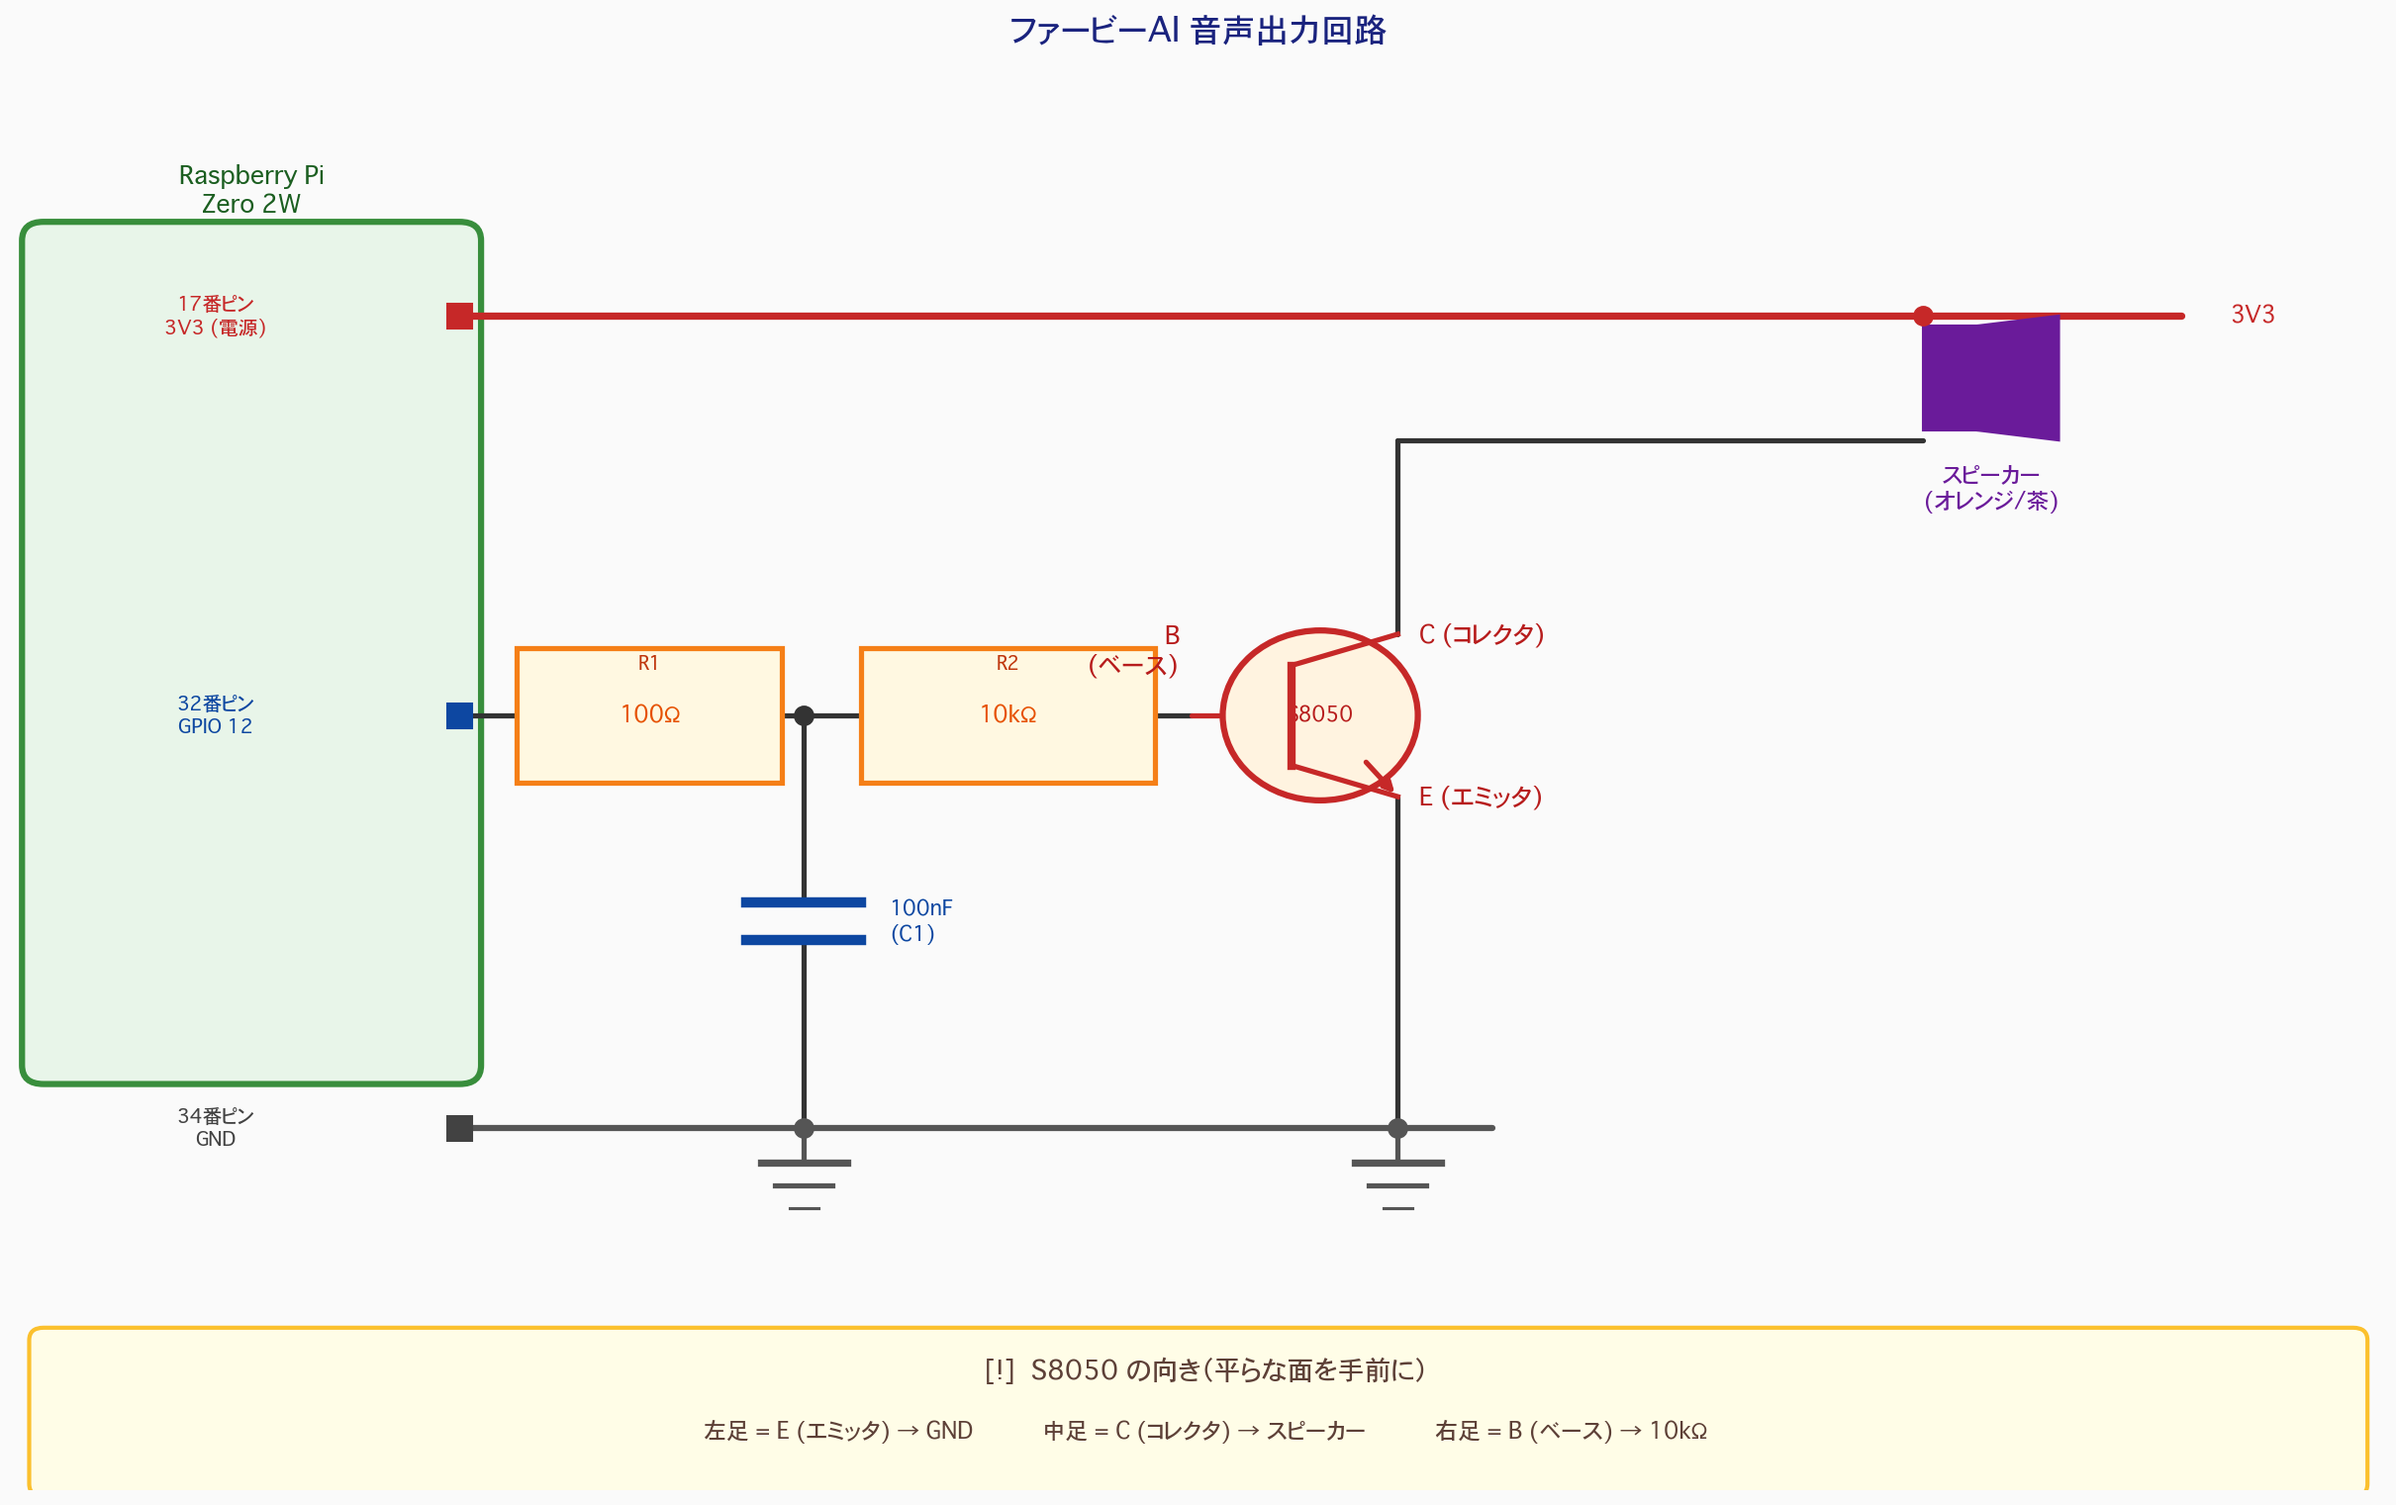
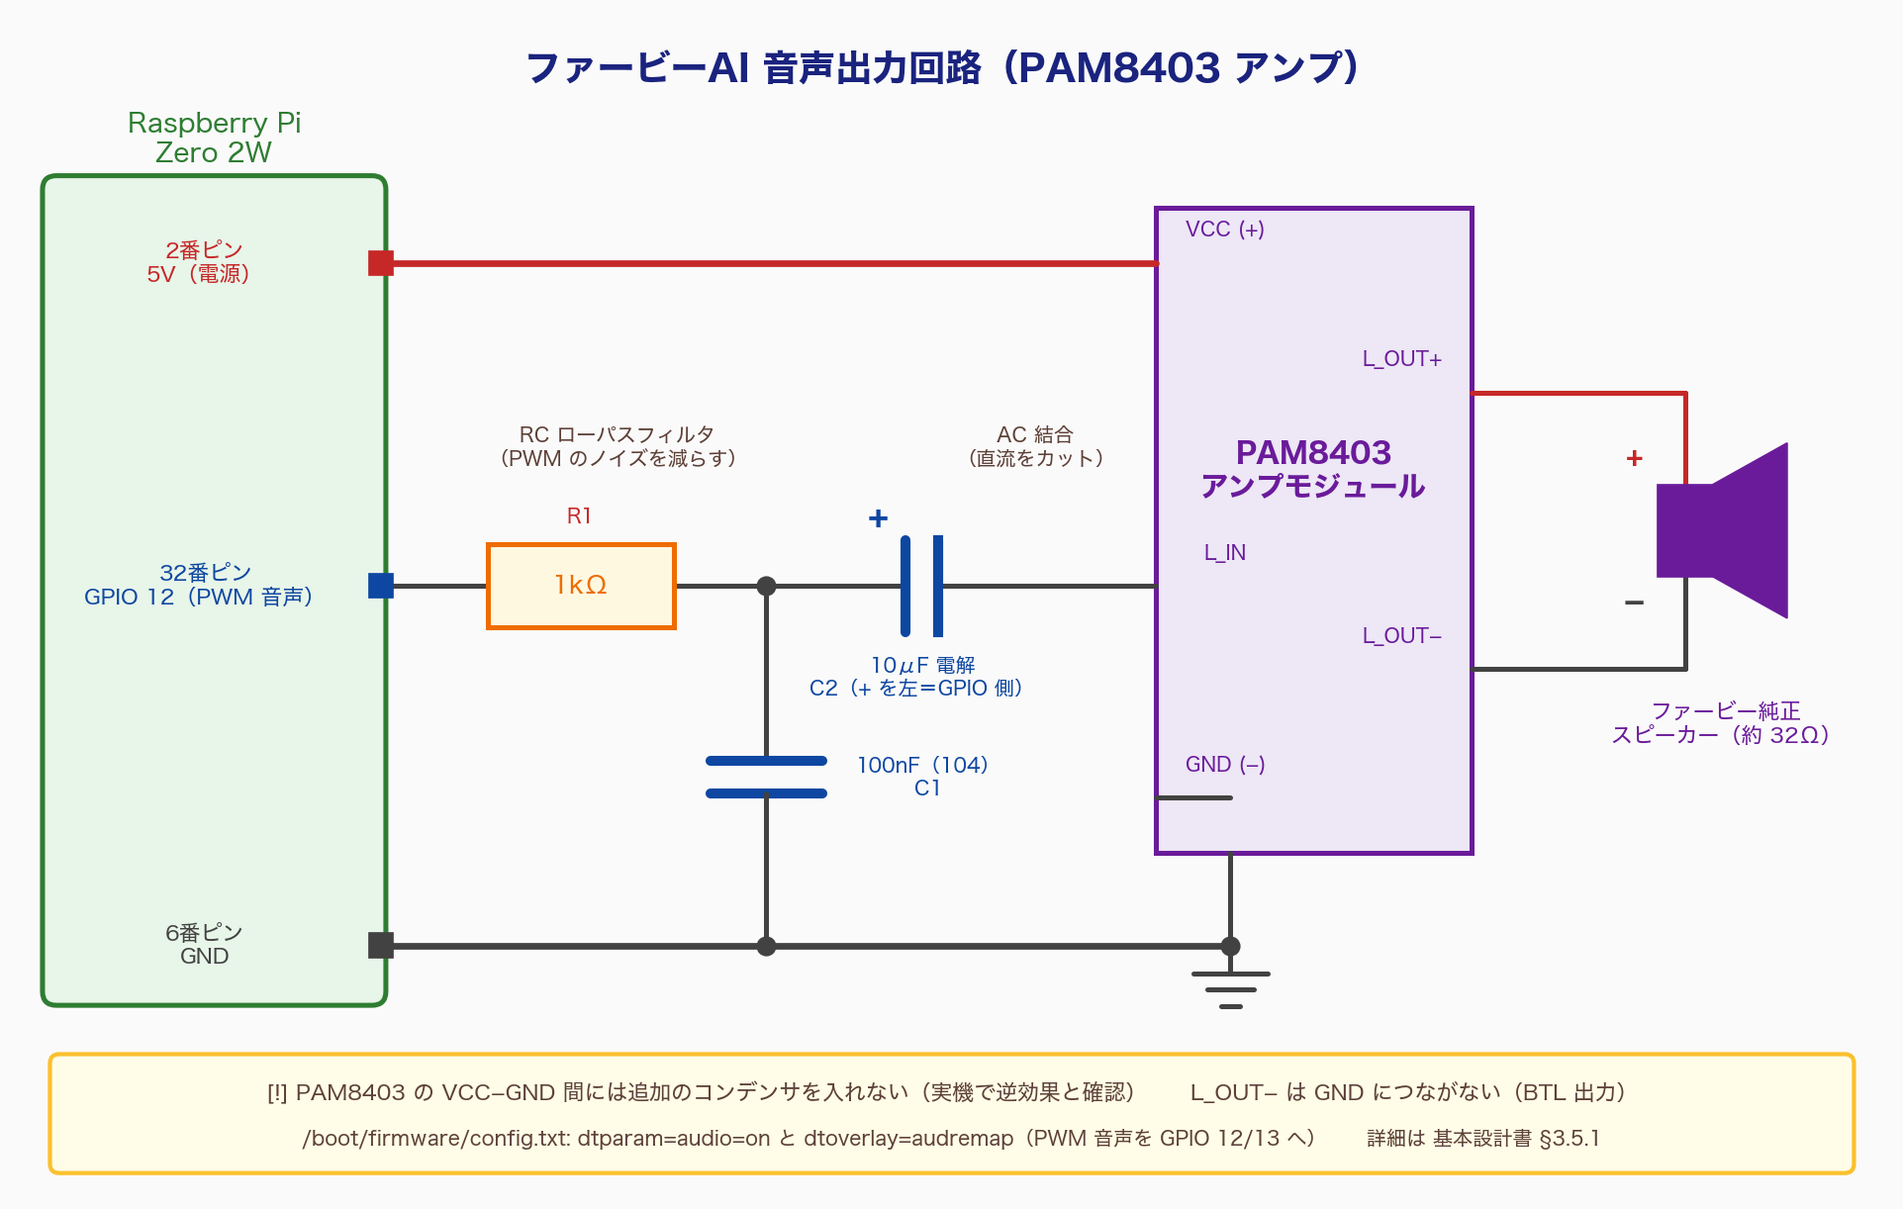
音声出力回路の図を現在の PAM8403 アンプ構成に差し替え
前の図は PAM8403 にする前の直結（S8050）回路だった。描き直せるように生成スクリプトも追加。

diff --git a/docs/draw_audio_circuit.py b/docs/draw_audio_circuit.py
@@ -1,0 +1,119 @@
+"""PAM8403 版 音声出力回路図を描く
+
+実行: python3 docs/draw_audio_circuit.py docs/audio_circuit.png（matplotlib と macOS のヒラギノフォントが必要）
+"""
+import sys
+
+import matplotlib
+matplotlib.use('Agg')
+import matplotlib.pyplot as plt
+from matplotlib.patches import FancyBboxPatch, Polygon, Rectangle
+
+plt.rcParams['font.family'] = 'Hiragino Sans'
+
+RED, BLUE, GRAY, ORANGE, PURPLE, GREEN = '#c62828', '#0d47a1', '#424242', '#ef6c00', '#6a1b9a', '#2e7d32'
+fig, ax = plt.subplots(figsize=(20, 12.6), dpi=121)
+ax.set_xlim(0, 20)
+ax.set_ylim(0, 12.6)
+ax.axis('off')
+fig.patch.set_facecolor('#fafafa')
+
+
+def wire(xs, ys, c=GRAY, lw=3):
+    ax.plot(xs, ys, color=c, lw=lw, solid_capstyle='round', zorder=1)
+
+
+def dot(x, y, c=GRAY):
+    ax.plot(x, y, 'o', color=c, ms=11, zorder=3)
+
+
+def text(x, y, s, c=GRAY, size=14, **kw):
+    ax.text(x, y, s, color=c, fontsize=size, ha='center', va='center', zorder=4, **kw)
+
+
+def ground(x, y):
+    wire([x, x], [y, y - 0.3])
+    for i, w in enumerate((0.4, 0.25, 0.1)):
+        wire([x - w, x + w], [y - 0.3 - i * 0.18] * 2, lw=3)
+
+
+text(10, 12.1, 'ファービーAI 音声出力回路（PAM8403 アンプ）', '#1a237e', 22, weight='bold')
+
+# Raspberry Pi
+Y5V, YSIG, YGND = 10.0, 6.5, 2.6
+ax.add_patch(FancyBboxPatch((0.25, 2.0), 3.6, 8.9, boxstyle='round,pad=0.05,rounding_size=0.15',
+                            fc='#e8f5e9', ec=GREEN, lw=3))
+text(2.05, 11.35, 'Raspberry Pi\nZero 2W', GREEN, 16)
+for y, label, c in ((Y5V, '2番ピン\n5V（電源）', RED), (YSIG, '32番ピン\nGPIO 12（PWM 音声）', BLUE),
+                    (YGND, '6番ピン\nGND', GRAY)):
+    text(1.95, y, label, c, 13)
+    ax.add_patch(Rectangle((3.72, y - 0.13), 0.26, 0.26, color=c, zorder=3))
+
+# PAM8403
+PX0, PX1, PY0, PY1 = 12.2, 15.6, 3.6, 10.6
+ax.add_patch(Rectangle((PX0, PY0), PX1 - PX0, PY1 - PY0, fc='#ede7f6', ec=PURPLE, lw=3))
+text((PX0 + PX1) / 2, 7.75, 'PAM8403\nアンプモジュール', PURPLE, 17, weight='bold')
+YIN = YSIG
+for y, label in ((Y5V, 'VCC (+)'), (YIN, 'L_IN'), (4.2, 'GND (−)')):
+    text(PX0 + 0.75, y + 0.35, label, PURPLE, 12)
+YOP, YOM = 8.6, 5.6
+for y, label in ((YOP, 'L_OUT+'), (YOM, 'L_OUT−')):
+    text(PX1 - 0.75, y + 0.35, label, PURPLE, 12)
+
+# 5V → VCC
+wire([3.98, PX0], [Y5V, Y5V], RED, 4)
+
+# GND レール
+wire([3.98, 13.0], [YGND, YGND], GRAY, 4)
+wire([13.0, 13.0], [YGND, PY0], GRAY, 3)
+wire([PX0, 13.0], [4.2, 4.2], GRAY, 3)
+dot(13.0, YGND)
+ground(13.0, YGND)
+
+# GPIO12 → R1(1kΩ) → ノード → C2(10μF) → L_IN
+wire([3.98, 5.0], [YSIG, YSIG])
+ax.add_patch(Rectangle((5.0, YSIG - 0.45), 2.0, 0.9, fc='#fff8e1', ec=ORANGE, lw=3, zorder=2))
+text(6.0, YSIG, '1kΩ', ORANGE, 15)
+text(6.0, YSIG + 0.75, 'R1', RED, 12)
+NX = 8.0
+wire([7.0, 9.5], [YSIG, YSIG])
+dot(NX, YSIG)
+# C1 100nF（ノード → GND）
+wire([NX, NX], [YSIG, 4.6])
+wire([NX - 0.6, NX + 0.6], [4.6, 4.6], BLUE, 6)
+wire([NX - 0.6, NX + 0.6], [4.25, 4.25], BLUE, 6)
+wire([NX, NX], [4.25, YGND])
+dot(NX, YGND)
+text(NX + 1.75, 4.42, '100nF（104）\nC1', BLUE, 12)
+# C2 10μF 電解（+ が左）
+wire([9.5, 9.5], [YSIG - 0.5, YSIG + 0.5], BLUE, 6)
+ax.add_patch(Polygon([(9.85, YSIG - 0.5), (9.85, YSIG + 0.5)], closed=False, ec=BLUE, lw=6))
+ax.plot([9.85, 9.85], [YSIG - 0.5, YSIG + 0.5], color=BLUE, lw=6)
+text(9.2, YSIG + 0.75, '+', BLUE, 18, weight='bold')
+text(9.68, YSIG - 1.0, '10μF 電解\nC2（+ を左＝GPIO 側）', BLUE, 12)
+wire([9.85, PX0], [YIN, YIN])
+
+text(6.4, 8.0, 'RC ローパスフィルタ\n（PWM のノイズを減らす）', '#5d4037', 12)
+text(10.9, 8.0, 'AC 結合\n（直流をカット）', '#5d4037', 12)
+
+# スピーカー
+SX = 17.9
+wire([PX1, SX], [YOP, YOP], RED, 3)
+wire([PX1, SX], [YOM, YOM], GRAY, 3)
+wire([SX, SX], [YOP, 7.6], RED, 3)
+wire([SX, SX], [YOM, 6.6], GRAY, 3)
+ax.add_patch(Rectangle((SX - 0.3, 6.6), 0.6, 1.0, color=PURPLE, zorder=2))
+ax.add_patch(Polygon([(SX + 0.3, 6.6), (SX + 1.1, 6.15), (SX + 1.1, 8.05), (SX + 0.3, 7.6)], color=PURPLE, zorder=2))
+text(SX + 0.45, 5.0, 'ファービー純正\nスピーカー（約 32Ω）', PURPLE, 13)
+text(SX - 0.55, 7.9, '+', RED, 15, weight='bold')
+text(SX - 0.55, 6.3, '−', GRAY, 15, weight='bold')
+
+# 注意書き
+ax.add_patch(FancyBboxPatch((0.3, 0.15), 19.4, 1.25, boxstyle='round,pad=0.02,rounding_size=0.1',
+                            fc='#fffde7', ec='#fbc02d', lw=2.5))
+text(10, 1.0, '[!] PAM8403 の VCC−GND 間には追加のコンデンサを入れない（実機で逆効果と確認）'
+              '　　L_OUT− は GND につながない（BTL 出力）', '#5d4037', 13)
+text(10, 0.5, '/boot/firmware/config.txt: dtparam=audio=on と dtoverlay=audremap（PWM 音声を GPIO 12/13 へ）'
+              '　　詳細は 基本設計書 §3.5.1', '#5d4037', 12)
+
+fig.savefig(sys.argv[1], facecolor=fig.get_facecolor(), bbox_inches='tight', pad_inches=0.2)
